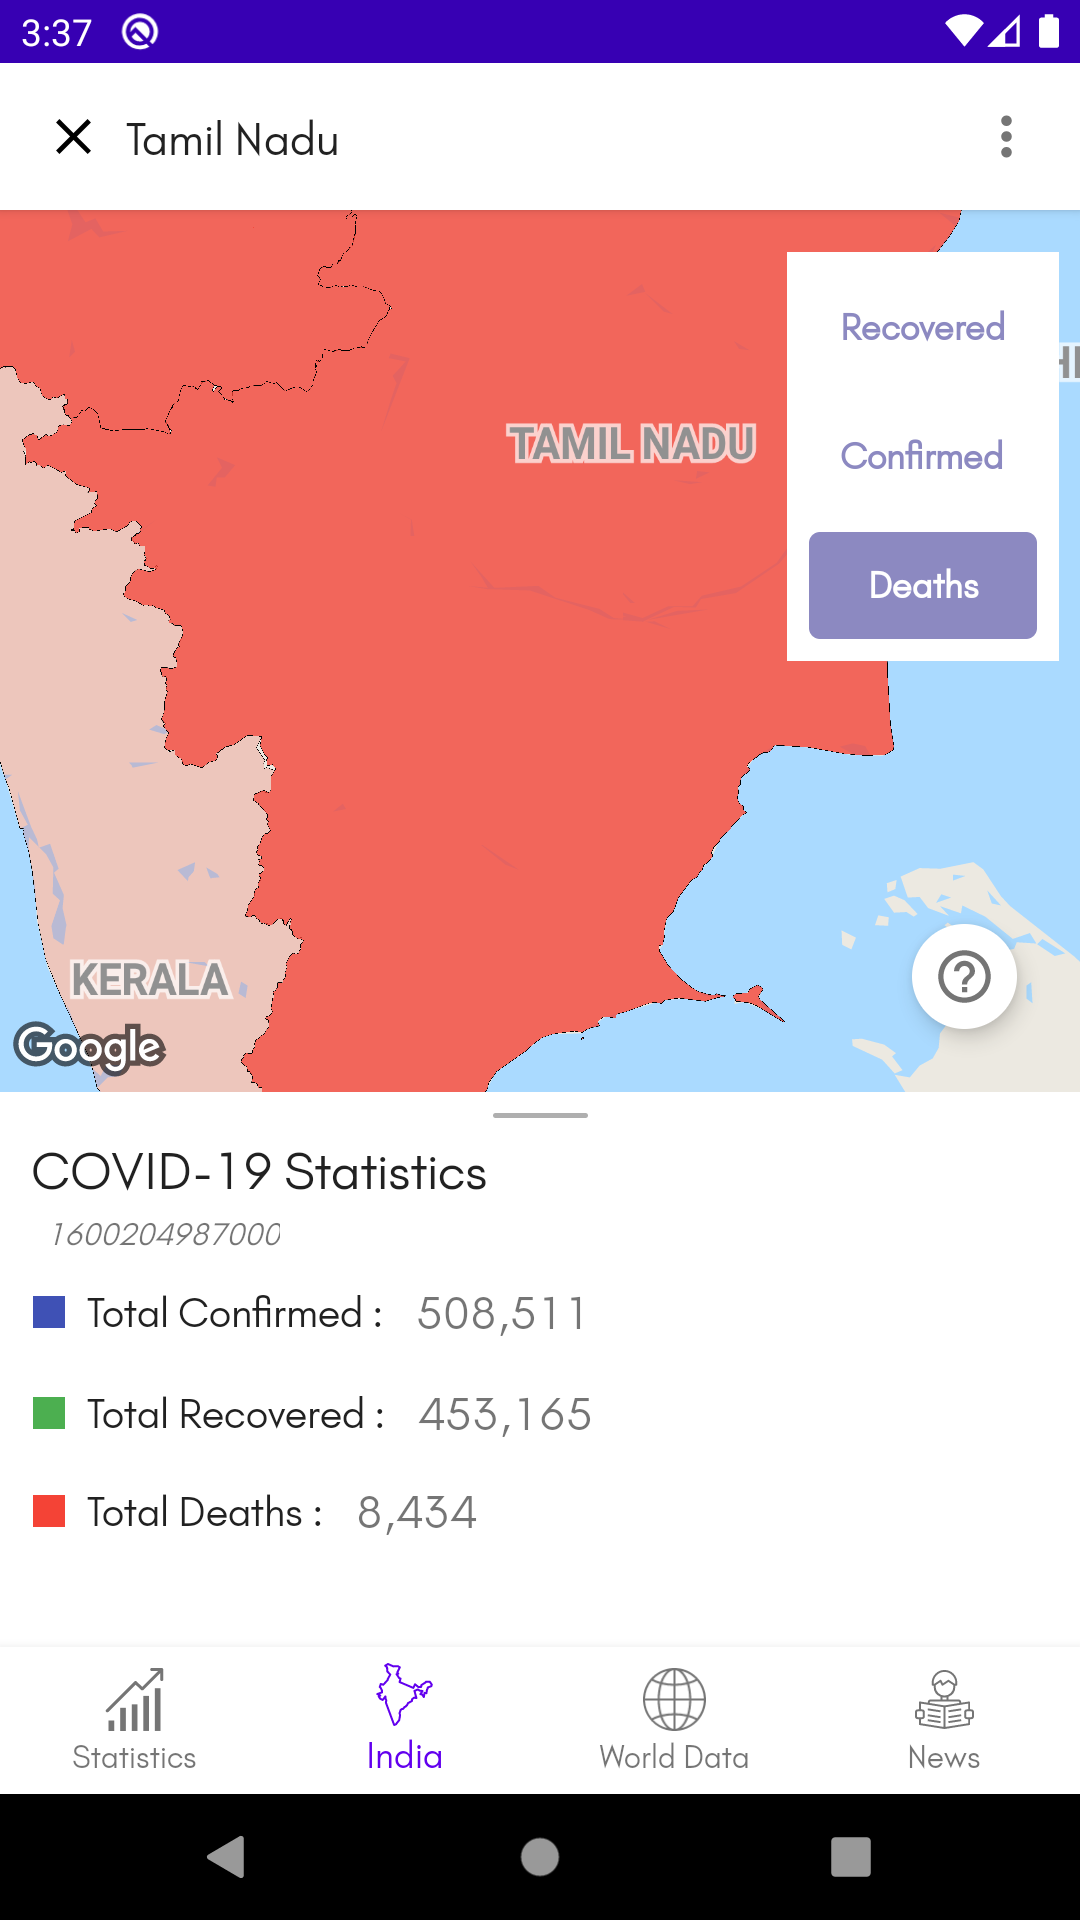
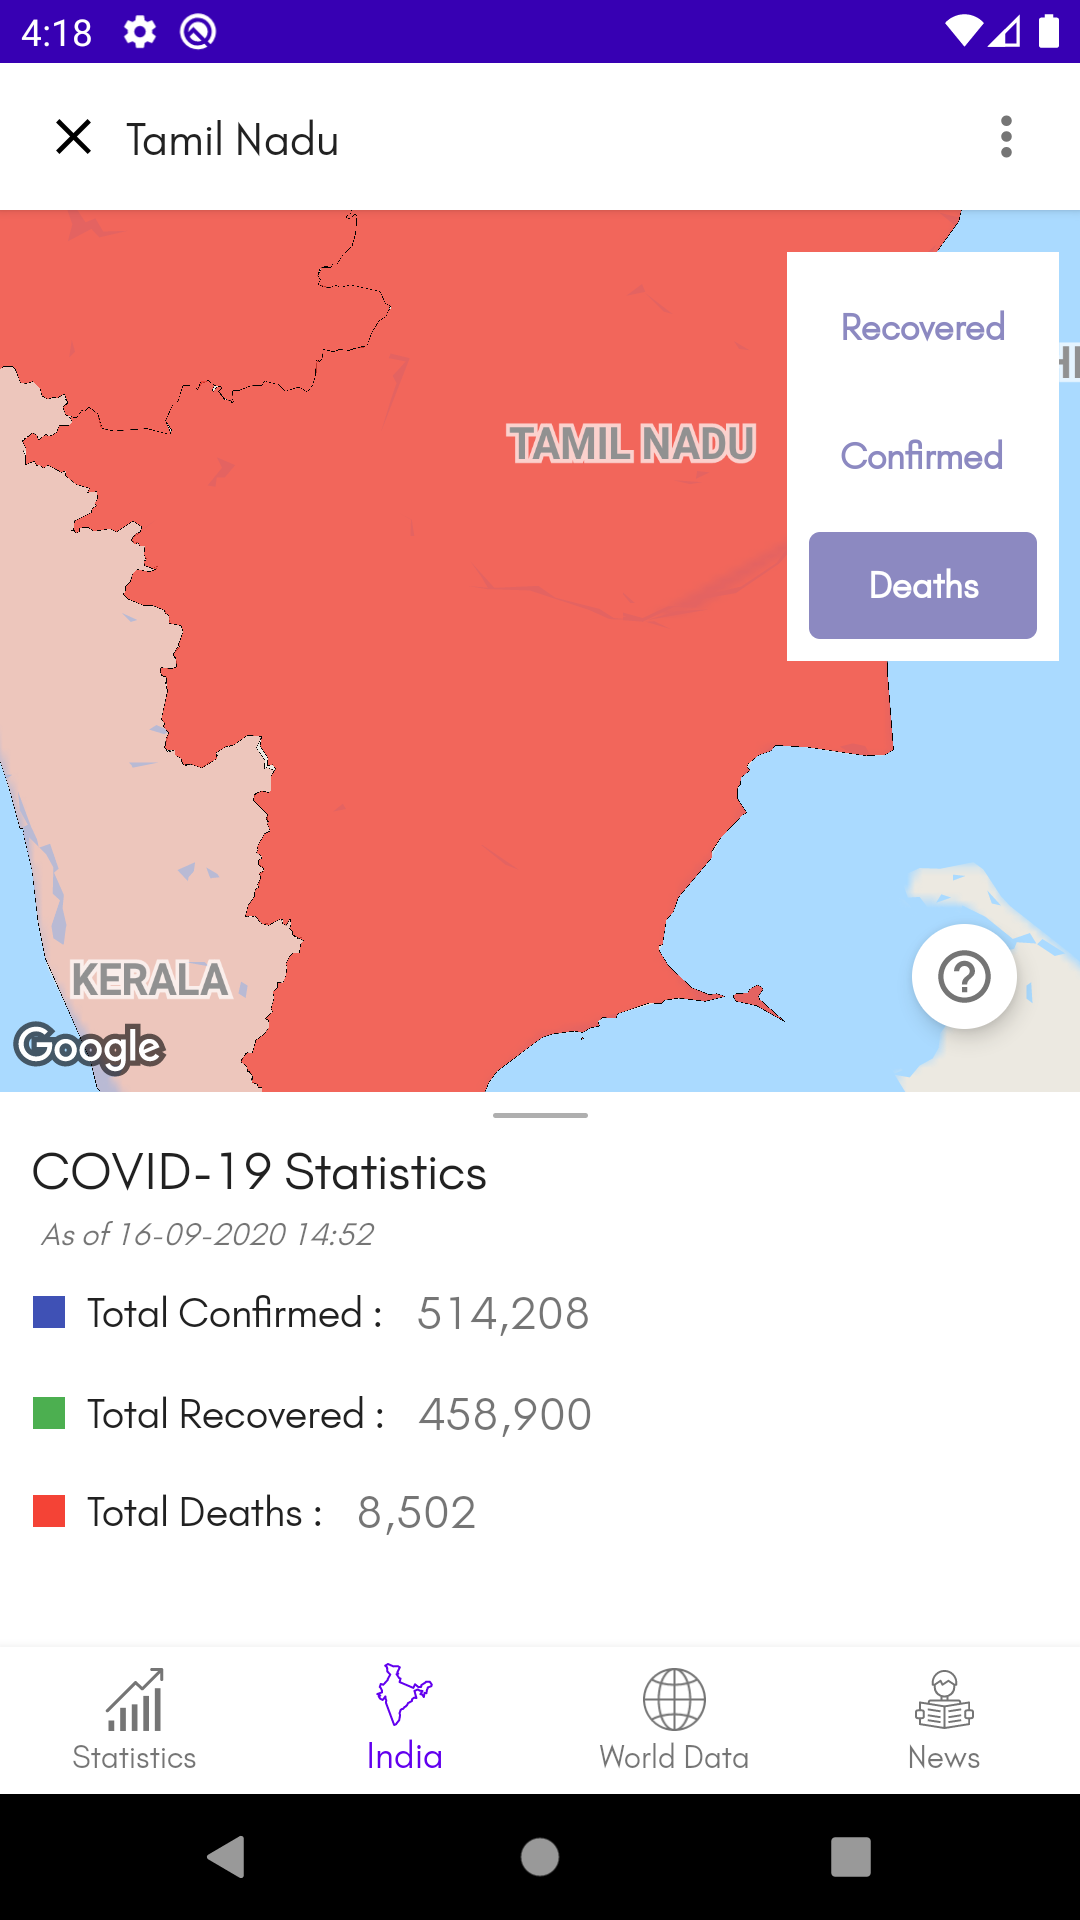
Formatted date in state detail stats heat map fragment, and changed the screenshot

diff --git a/app/src/main/java/com/clay/covid_19helper/ui/fragments/HeatMapFragment.kt b/app/src/main/java/com/clay/covid_19helper/ui/fragments/HeatMapFragment.kt
@@ -54,6 +54,8 @@ import kotlinx.android.synthetic.main.fragment_heat_map.mapView
 import timber.log.Timber
 import java.lang.Exception
 import java.text.NumberFormat
+import java.text.SimpleDateFormat
+import java.util.*
 import kotlin.math.hypot
 import kotlin.math.max
 
@@ -137,7 +139,10 @@ class HeatMapFragment : Fragment(R.layout.fragment_heat_map), OnMapReadyCallback
         tvConfirmedIndia.text = NumberFormat.getInstance().format(province.confirmed).toString()
         tvRecoveredIndia.text = NumberFormat.getInstance().format(province.recovered).toString()
         tvDeathIndia.text = NumberFormat.getInstance().format(province.deaths).toString()
-        tvDateIndia.text = province.lastUpdate.toString()
+        tvDateIndia.text = "As of ${SimpleDateFormat(
+            "dd-MM-yyy HH:mm",
+            Locale.getDefault()
+        ).format(Date(province.lastUpdate))} "
     }
 
 
